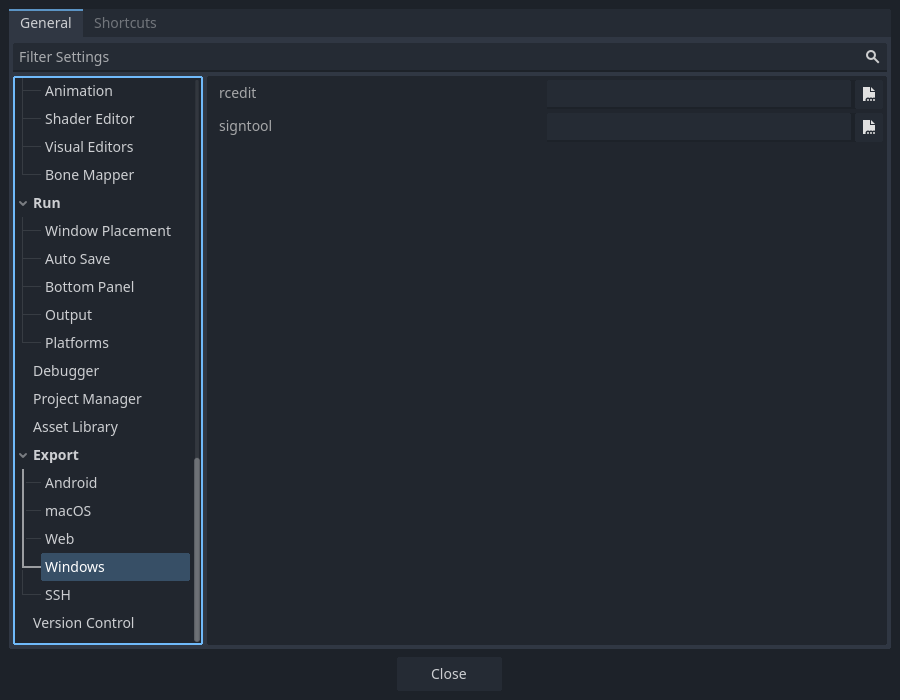
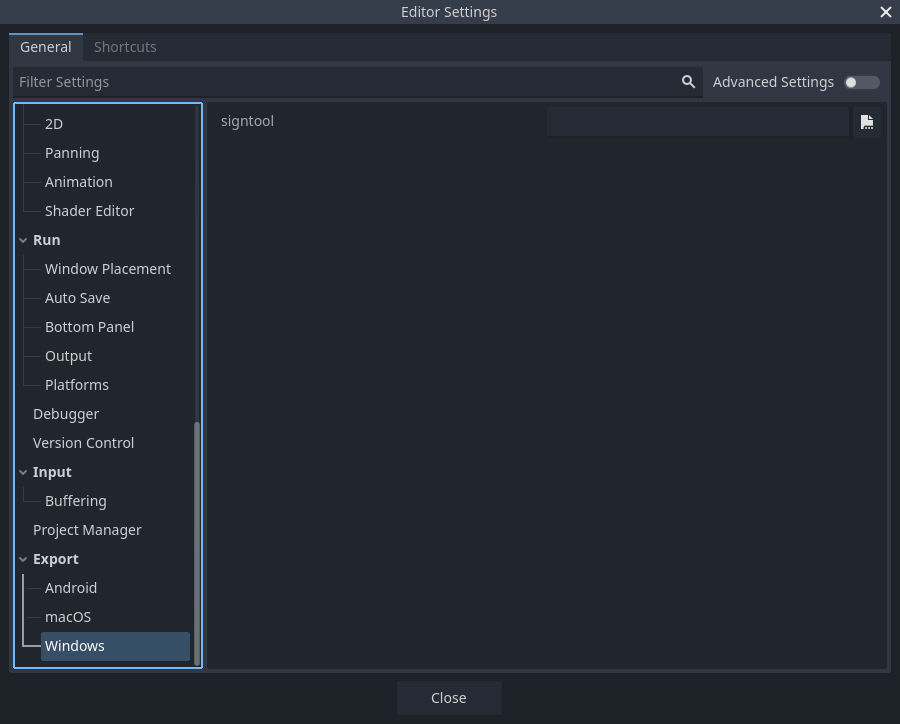
Update docs for built-in ICO file creation

diff --git a/tutorials/export/changing_application_icon_for_windows.rst b/tutorials/export/changing_application_icon_for_windows.rst
@@ -1,34 +1,24 @@
 .. _doc_changing_application_icon_for_windows:
 
-Changing application icon for Windows
-=====================================
+Manually changing application icon for Windows
+==============================================
 
-By default, the exported project's icon will be the Godot icon.
-You will most likely want to change that for your project. There are two types
-of icons that can be changed on Windows: the file icon and the taskbar icon.
+Windows applications use a Windows only format called ICO for their file icon and
+taskbar icon. Since Godot 4.1, Godot can create an ICO file for you based on the
+icon file defined in the Windows export preset. Supported formats are PNG, WebP,
+and SVG. If no icon is defined in the Windows export preset, the
+:ref:`application/config/icon <class_ProjectSettings_property_application/config/icon>`
+project setting is used automatically instead.
+
+This means you no longer need to follow the steps in this section to
+manually create an ICO file, unless you wish to have control over the icon
+design depending on its displayed size.
 
 Creating a custom ICO file
 --------------------------
 
-.. note::
-
-    Since Godot 4.1, Godot can create an ICO file for you based on the icon file
-    defined in the Windows export preset. This icon file can be in PNG, WebP or
-    SVG format. If no icon is defined in the Windows export preset, the
-    :ref:`application/config/icon <class_ProjectSettings_property_application/config/icon>`
-    project setting is used automatically instead.
-
-    This means you no longer need to follow the steps in this section to
-    manually create an ICO file, unless you wish to have control over the icon
-    design depending on its displayed size. Note that even if Godot creates the
-    ICO file for you, you still need to
-    :ref:`set up rcedit <doc_changing_application_icon_for_windows_changing_the_file_icon>`
-    so that the file icon actually changes.
-
-Windows does not use formats such as PNG or JPEG for application icons. Instead,
-it uses a Windows-only format called ICO. You can create your application icon
-in any program but you will have to convert it to an ICO file using a program such
-as GIMP.
+You can create your application icon in any program but you will have to convert it
+to an ICO file using a program such as GIMP.
 
 `This video tutorial <https://www.youtube.com/watch?v=uqV3UfM-n5Y>`_ goes over how to
 export an ICO file with GIMP.
@@ -79,64 +69,17 @@ use the ``Icon`` setting.
 Changing the file icon
 ----------------------
 
-In Godot 3.5 and later, you can change the file icon without
-external tools using `godoticon <https://github.com/pkowal1982/godoticon>`__.
-Changing the file icon this way should work for executables containing
-an embedded PCK.
-
 The file icon is the icon of the executable that you click on to start
 the project.
 
 .. image:: img/icon_file_icon.png
 
-Before selecting it in the export options, you will need to install
-an extra tool called **rcedit**.
-You can download it `here <https://github.com/electron/rcedit/releases>`_.
-
-After downloading, you need to tell Godot the path to the rcedit executable
-on your computer.
-Go to **Editor > Editor Settings > Export > Windows**.
-Click on the folder icon for the **rcedit** entry.
-Navigate to and select the rcedit executable.
-
-.. note::
-
-    Linux and macOS users will also need to install
-    `WINE <https://www.winehq.org/>`_ to use rcedit.
-
-    On macOS, make sure to use a 64-bit version of both WINE and rcedit since
-    32-bit applications aren't supported anymore.
-
-.. image:: img/icon_rcedit.webp
-
-You should now have everything in place to change the file icon.
 To do that, you will need to specify the icon when exporting.
 Go to **Project > Export**. Assuming you have already created
 a Windows Desktop preset, select your icon in ICO format in
 the **Application > Icon** field.
 
-.. warning::
-
-    All the supplied metadata must be valid. Most importantly, the version
-    identifiers **must** take the form ``major.minor.patch.revision`` where
-    every component is required and is a positive integer. For instance,
-    ``1.2.0.0`` is valid but ``1.2.0`` is not.
-
-    If you provide invalid metadata in the export preset, the application icon
-    won't change as rcedit will fail to change the executable's metadata.
-
 .. image:: img/icon_export_settings.webp
-
-.. note::
-
-    If rcedit fails to change the icon, you can instead
-    :ref:`compile your own Windows export templates <doc_compiling_for_windows>`
-    with the icon changed. To do so, replace
-    `platform/windows/godot.ico <https://github.com/godotengine/godot/blob/master/platform/windows/godot.ico>`__
-    with your own ICO file *before* compiling export templates.
-
-    Once this is done, you can specify your export templates as custom export
-    templates in your project's Windows export preset.
 
 Testing the result
 ------------------
@@ -147,6 +90,6 @@ You can now export the project. If it worked correctly, you should see this:
 
 .. note::
 
-    If your icon isn't showing up properly, on Windows 10, try clearing the icon
+    If your icon isn't showing up properly try clearing the icon
     cache. To do so, open the **Run** dialog and enter ``ie4uinit.exe
     -ClearIconCache`` or ``ie4uinit.exe -show``.

diff --git a/tutorials/export/exporting_for_windows.rst b/tutorials/export/exporting_for_windows.rst
@@ -21,10 +21,10 @@ binary that is smaller, faster and does not contain the editor and debugger.
 Changing the executable icon
 ----------------------------
 
-To change the exported executable icon from the default Godot icon,
-you need to set up a tool called *rcedit*. Godot will then call this tool
-on export automatically. This process is documented in
-:ref:`doc_changing_application_icon_for_windows`.
+Godot will automatically use whatever image is set as your project's icon in the project
+settings, and convert it to an ICO file for the exported project. If you want to
+manually create an ICO file for greater control over how the icon looks at different
+resolutions then see the :ref:`doc_changing_application_icon_for_windows` page.
 
 Code signing
 ------------
